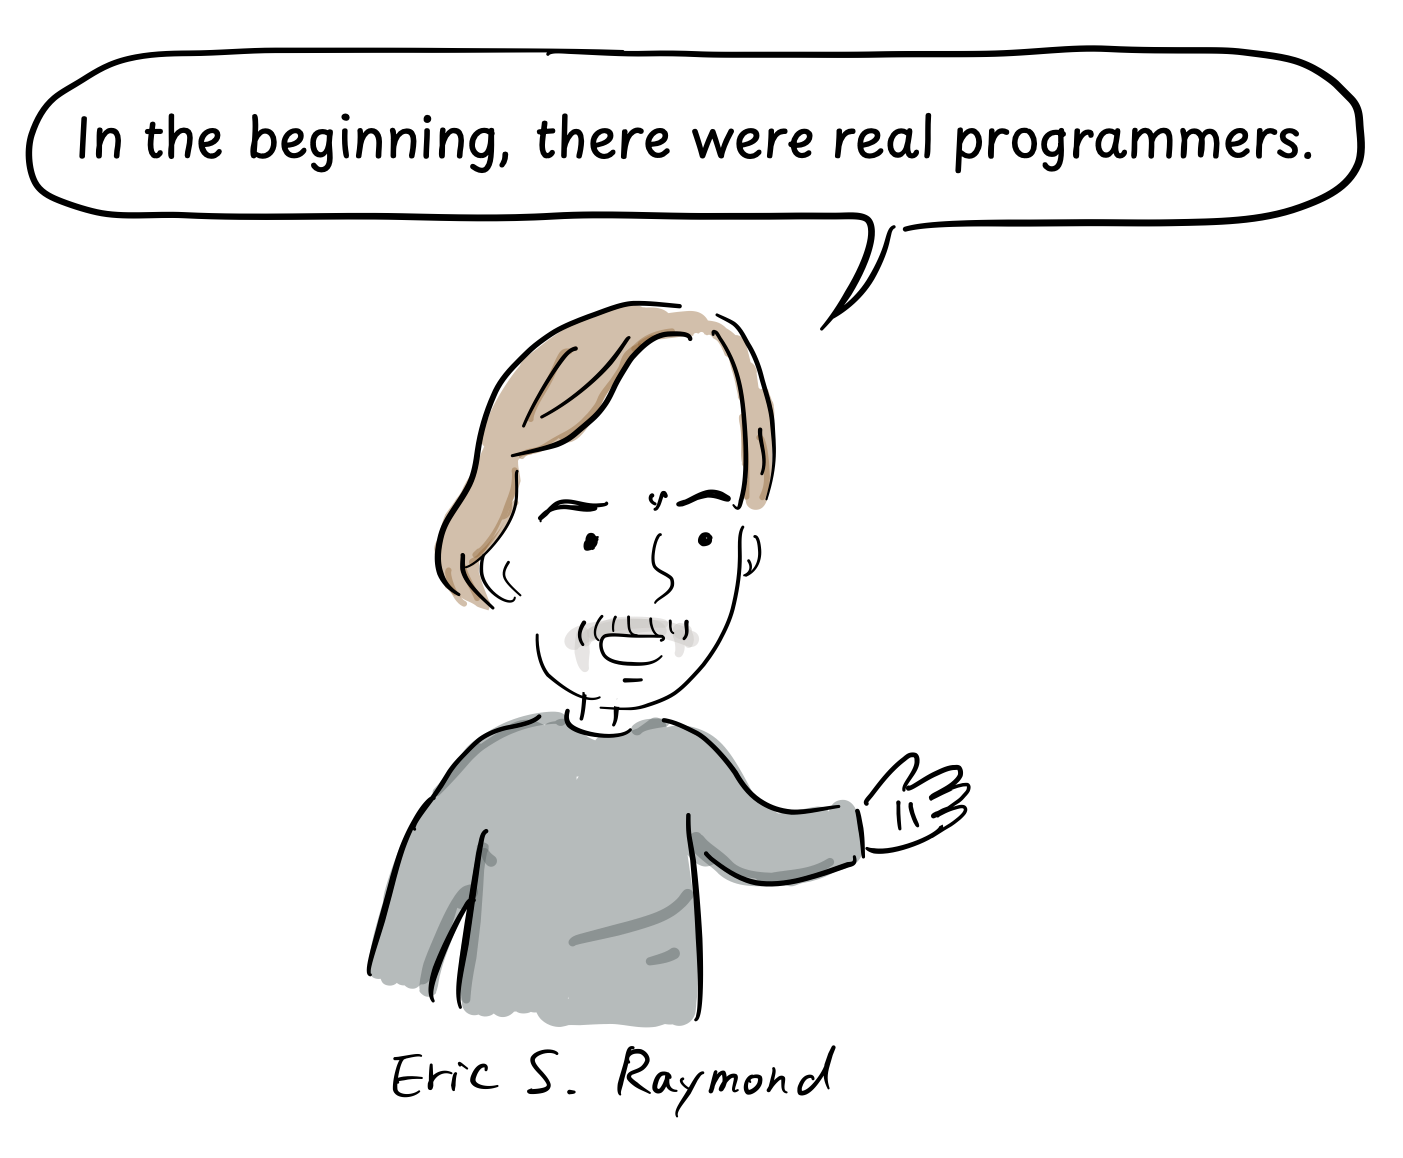
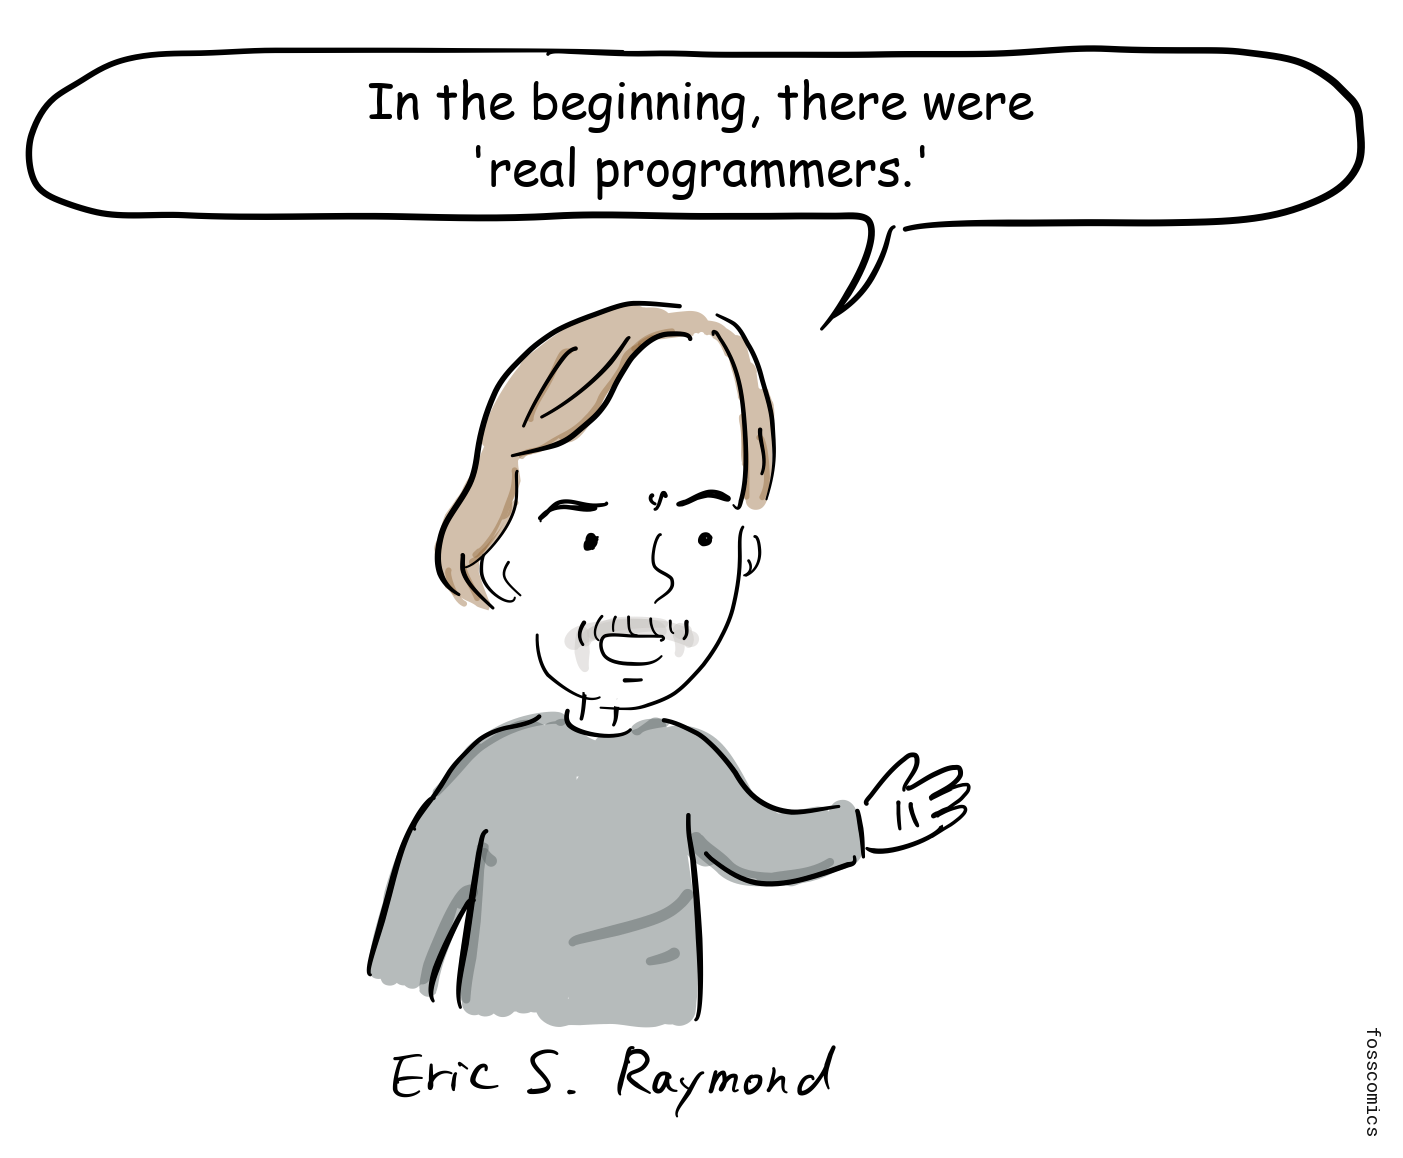
Review Episode 6 English content

Changed region(s): [[0.0306, 0.0622, 0.9195, 0.1865], [0.9501, 0.9016, 0.9808, 0.9326]]

diff --git a/content/posts/6. The Origin of the Hacker Culture/index.md b/content/posts/6. The Origin of the Hacker Culture/index.md
@@ -2,48 +2,48 @@
 title: 6. The Origin of the Hacker Culture
 date: "2022-12-17"
 image: feature.png
-description: The origins of hacker culture trace back to the 1960s, starting with MIT's introduction of the PDP-1 computer. Early enthusiasts, often with backgrounds in mathematics, physics, or engineering, engaged in creating foundational software like Spacewar!, text editors, and music programs. This culture evolved into today's open-source hacker community, expanding with the advent of ARPAnet, the precursor to the internet... 
+description: The origins of hacker culture reach back to early programming communities and MIT's PDP-1 enthusiasts, who created software such as Spacewar!, text editors, and music programs. Project MAC, the AI Lab, ITS, and ARPANET helped this culture spread and influence today's open-source hacker community.
 tags: Hacker, PDP-1, Spacewar!, MIT, LISP, ITS, MIT AI Lab, Eric S. Raymond, ARPAnet
 ---
 
-Note: These comics were written with a reference to  “[A Brief History of Hackerdom](https://www.google.com/url?q=http://www.catb.org/~esr/writings/cathedral-bazaar/hacker-history/\&sa=D\&source=editors\&ust=1711344815826052\&usg=AOvVaw1hhNtgiZ4iwOVv7n966JhY)” by Eric S. Raymond.
+Note: These comics were written with reference to Eric S. Raymond's "[A Brief History of Hackerdom](http://www.catb.org/~esr/writings/cathedral-bazaar/hacker-history/)." The phrase "real programmers" is Raymond's retrospective framing, not a neutral historical category.
 
-![](images/6_1.png "size:70%")
-> “In the beginning, there were real programmers.”
+![Eric S. Raymond gestures as he introduces his retrospective account of early programmers.](images/6_1.png "size:70%")
+> "In the beginning, there were 'real programmers.'"
 
-![](images/6_2.png "size:70%")
-> “What is a real programmer?”\
-> I have been practicing machine coding for 30 years
+![A long-haired, bearded programmer sits cross-legged and imagines rows of binary digits.](images/6_2.png "size:70%")
+> "What is a real programmer?" \
+> "Training in machine code for 30 years."
 
-![](images/6_3.png "size:90%")
-> “These were mostly people who had studied mathematics, physics or engineering, and they wore dress shirts and ties, thick horn-rimmed glasses, and wrote codes with machine language, assembler, Fortran, and ancient computer languages that are now forgotten.”
+![Raymond points toward two formally dressed programmers working at a large console.](images/6_3.png "size:90%")
+> "These were mostly people who had studied mathematics, physics, or engineering, and they wore dress shirts and ties, thick horn-rimmed glasses, and wrote code in machine language, assembler, Fortran, and ancient computer languages that are now forgotten."
 
-If you visit [the Wikipedia page on the History of Programming Languages](https://www.google.com/url?q=https://en.wikipedia.org/wiki/History_of_programming_languages\&sa=D\&source=editors\&ust=1711344815827013\&usg=AOvVaw3UaJts5ZTFuo8WpLDedMCY), you will find a list of the programming languages that were developed in the early days of computing. You may encounter some languages on the list that you've never heard of before - these are likely to be ancient, obsolete languages that are no longer in use.
+If you visit [the Wikipedia page on the history of programming languages](https://en.wikipedia.org/wiki/History_of_programming_languages), you will find a long list of languages developed in the early days of computing. You may encounter some languages on the list that you've never heard of before. These are likely to be ancient, obsolete languages that are no longer in use.
 
+![A bearded programmer works at a computer set on a rough log table.](images/6_4.png "size:80%")
+> "Do you know ALGOL or Simula?"
 
-![](images/6_4.png "size:80%")
+Of course, we must also acknowledge the contributions of women programmers during this period.
 
-Of course, we must also acknowledge the contributions of female programmers during this time period.
+![Raymond presents portraits of Margaret Hamilton and Grace Hopper.](images/6_5.png "size:80%")
+> "Many early 'real programmers' were women, including Margaret Hamilton and Grace Hopper."
 
-![](images/6_5.png "size:80%")
-> “A lot of the real programmers in the beginning were obviously women such as [Margaret Hamilton](https://en.wikipedia.org/wiki/Margaret_Hamilton_\(software_engineer\)) and Grace Hopper."
+This culture of early programmers helped develop computing and networks. It also contributed to today's hacker and open-source cultures[&lbrack;1&rbrack;][1].
 
-This culture of real programmers has developed computing and networks. In addition, it has evolved into the open source hacker culture of today[&lbrack;1&rbrack;][1].
+![Programmers at separate computers are linked by a winding line that represents the spread of shared ideas and software.](images/6_6.png)
 
-![](images/6_6.png)
+MIT's early hacker culture had roots in the Tech Model Railroad Club before the PDP-1 arrived. Digital Equipment Corporation introduced the PDP-1 in 1959, and MIT received an early machine in 1960. Students and staff who encountered it created a text editor and a chess program, experimented with computer music, and developed [Spacewar!](https://en.wikipedia.org/wiki/Spacewar!) for fun. Spacewar! became one of the earliest and most influential video games.
 
-The early hacker culture begins with the introduction of the first computer called PDP-1 by MIT in 1961[&lbrack;1&rbrack;][1]. At this time, some students who came across the PDP-1 developed the first video game called [Spacewar!](https://www.google.com/url?q=https://en.wikipedia.org/wiki/Spacewar!\&sa=D\&source=editors\&ust=1711344815828204\&usg=AOvVaw2bc_EyRX-19Ol_owmzNTwB) for fun, and also made a text editor and a chess game. They were also the first to play computer music.
-
-![](images/6_7.png "PDP-1")
+![A programmer operates a PDP-1 console while music plays beside its paper-tape reader and typewriter.](images/6_7.png "PDP-1")
 
 In the YouTube video below, you can see the music playing and Spacewar! running on PDP-1.
 <div style="text-align:center">
 <iframe width="560" height="315" src="https://www.youtube.com/embed/7bzWnaH-0sg?si=Y6mJVLcK9A5pPsQf" title="YouTube video player" frameborder="0" allow="accelerometer; autoplay; clipboard-write; encrypted-media; gyroscope; picture-in-picture; web-share" referrerpolicy="strict-origin-when-cross-origin" allowfullscreen></iframe>
 </div>
 
-At the time, the MIT Artificial Intelligence Lab was the birthplace of hacker culture. In the late 1960s, they developed a time-sharing operating system called  [ITS(Incompatible Timesharing System)](https://en.wikipedia.org/wiki/Incompatible_Timesharing_System)that ran on PDP-10 and a language called [LISP](https://en.wikipedia.org/wiki/Lisp_(programming_language)), which was made available free of charge to other universities and corporations. After the early form of the Internet, the ARPAnet, was connected, the hacker culture spread to other universities and institutions along with ITS.
+At the time, MIT was becoming a major center of hacker culture through Project MAC's AI group and the later Artificial Intelligence Laboratory. John McCarthy developed [Lisp](https://en.wikipedia.org/wiki/Lisp_(programming_language)) at MIT in 1958. Around 1967, programmers in the AI group began developing [ITS (Incompatible Timesharing System)](https://en.wikipedia.org/wiki/Incompatible_Timesharing_System) on the PDP-6; development later continued on PDP-10 computers. They shared software free of charge, along with technical ideas, with other universities and research institutions. After MIT's systems joined ARPANET, a precursor to the Internet, these programs and practices spread more easily to connected communities.
 
-![](images/6_8.png "size:80%")
+![Several programmers work independently at terminals in a shared computer laboratory.](images/6_8.png "size:80%")
 
 
 ## Readings from the Computer History Museum
